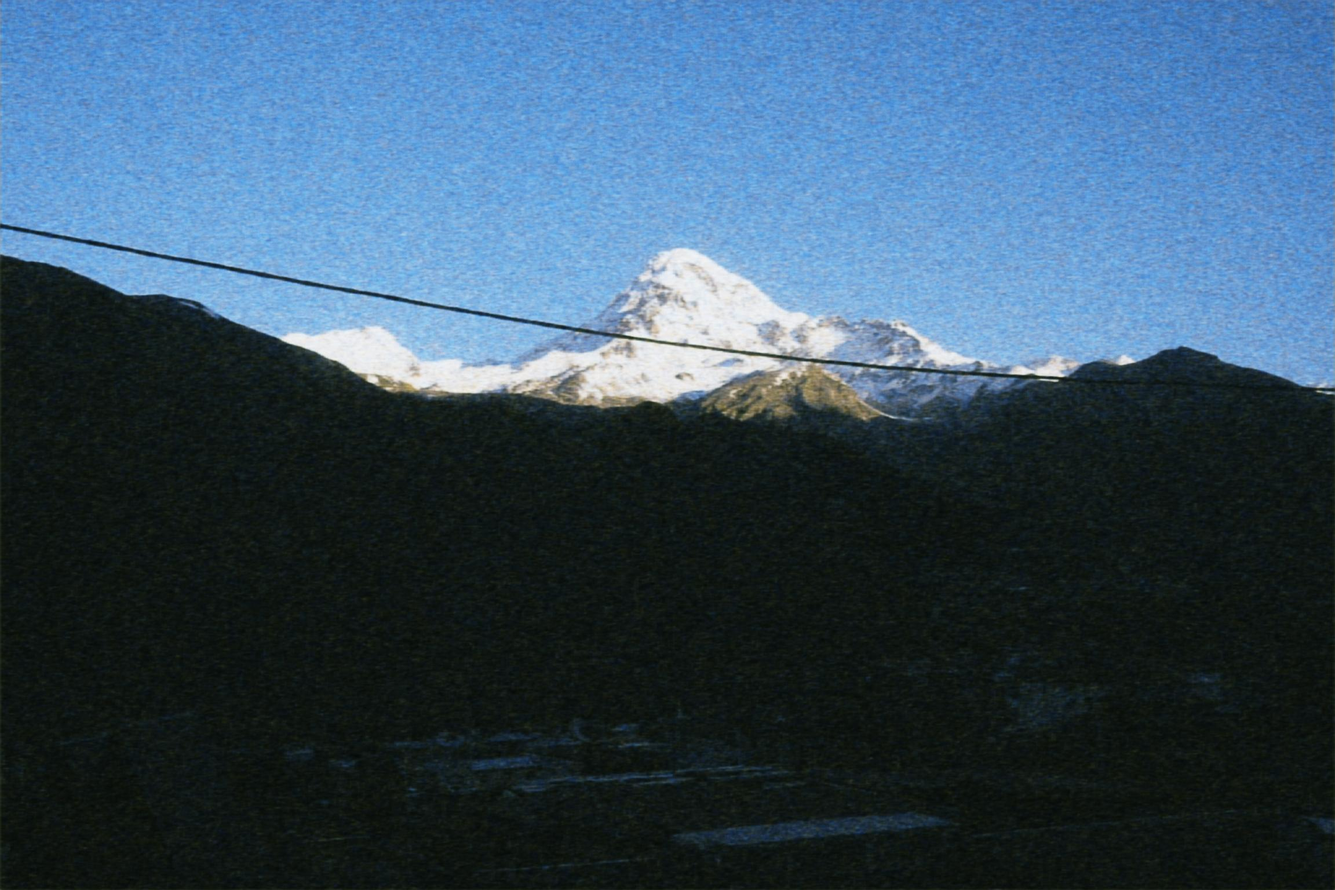
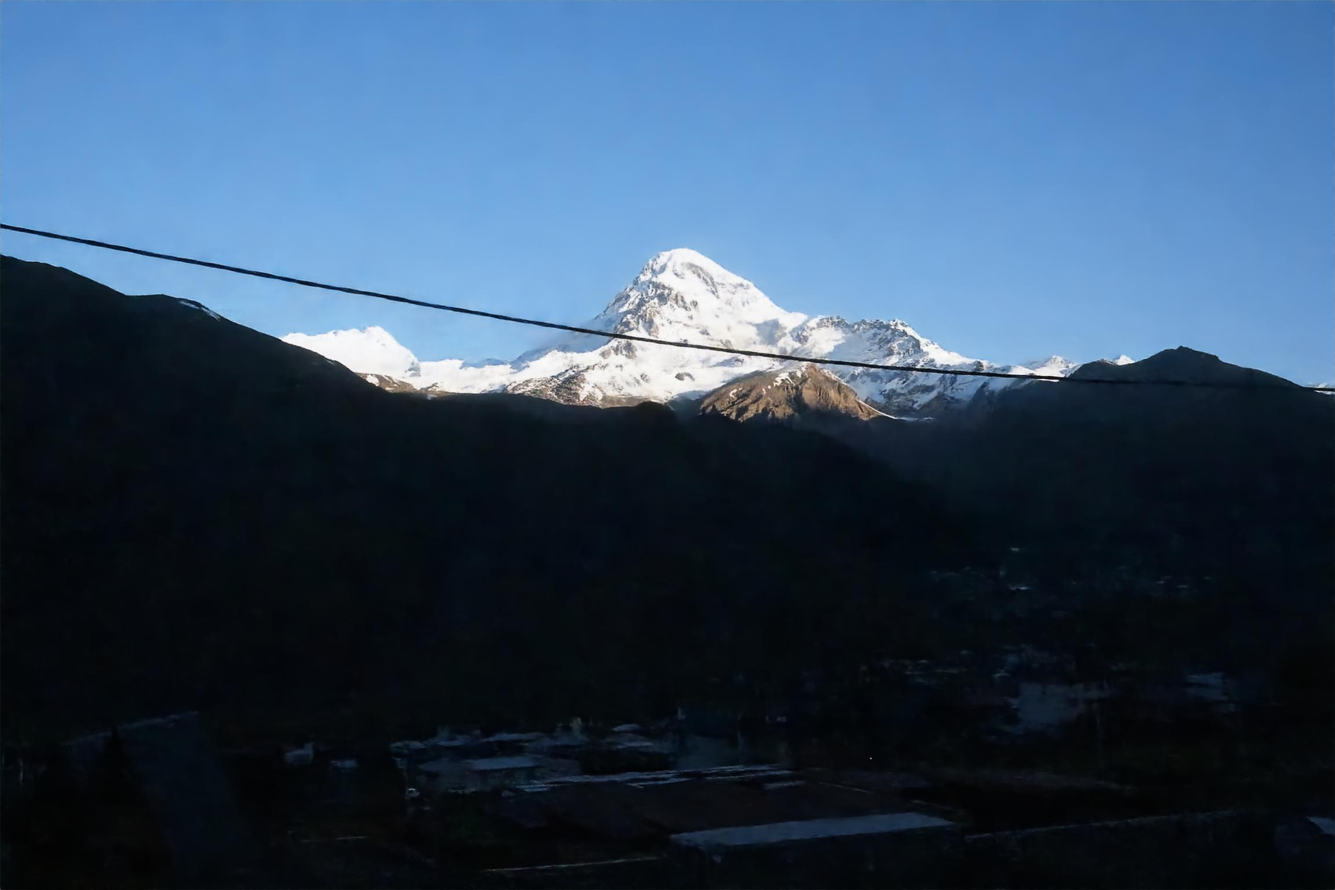
Update readme with latest results (#11)

diff --git a/README.md b/README.md
@@ -2,49 +2,63 @@
 
 A simple model to restore images from noise - and in the future from "out of focus" effects.
 
-## v0 Model Architecture
+## Denoising example
 
-A simple Autoencoder with 3 layers of convolution followed by 3 layers of deconvolution. Image dimensions flow is as follows:
+### Noise Level σ = 50
 
-1. pre: 3xHxW -> 3x16x16
-2. con-1: 3x16x16 -> 64x16x16
-3. con-2: 64x16x16 -> 128x8x18
-4. con-3: 128x8x18 -> 256x4x4
-5. decon-1: 256x4x4 -> 128x8x18
-6. decon-2: 128x8x18 -> 64x16x16
-7. decon-3: 64x16x16 -> 3x16x16
+#### Landscape Model
 
-Note 1: We have an additional 4th batching dimension.
-
-Note 2: For now we don't resize the image back to its original size since the output of this lightweight network is a small image.
-
-## Training Results
-
-Since we didn't use benchmark images and noise setting/levels, the metrics can't be directly compared. Nevertheless, we can see that
-the v0 model is still behind other denoising techniques/models (PSNR scores between ~25 and ~34). We'll tackle this by adding skip
-connections between the convolution layer and its adjacent deconvolution layer (inspired by
-[Xiao-Jiao Mao et al., 2016](https://arxiv.org/pdf/1606.08921)).
-
-Another issue with the current model is overfitting, which we will attempt to tackle with dropout layers.
-
-Moving forward we should include SSIM evaluation and standard benchmark setup for proper comparison.
-
-### Graphs
-
-![Loss](graphs/1717941258_loss.png)
-![PSNR](graphs/1717941258_psnr.png)
-![SSIM](graphs/1717941258_ssim.png)
-
-### Denoising example
-
-#### Noisy
+Noisy
 
 ![Noisy Image](images/image_noised.jpg)
 
-#### Denoised
+Denoised
 
 ![Denoised Image](images/image_denoised.jpg)
 
-#### Original
+Original
 
 ![Original Image](images/image_original.jpeg)
+
+#### BSDS300 model
+
+| Noisy | Denoised | Original |
+|-------|----------|----------|
+| ![Noisy Image](images/image_bsds300_noised.jpg) | ![Denoised Image](images/image_bsds300_denoised.jpg) | ![Original Image](images/image_bsds300_original.jpg) |
+
+## Benchmark Results
+
+RED30 comes from the paper [Xiao-Jiao Mao et al., 2016](https://arxiv.org/pdf/1606.08921).
+
+### SSIM
+
+| Noise Level | RED30 | DA_v1 |
+|-------------|-------|-------|
+| σ = 30      | 27.95 | 33.77 |
+| σ = 50      | 25.75 | 31.47 |
+
+### PSNR
+
+| Noise Level | RED30  | DA_v1 |
+|-------------|--------|-------|
+| σ = 30      | 0.8019 | 0.9287 |
+| σ = 50      | 0.7167 | 0.8911 |
+
+## Training on noise level σ = 50
+
+Green (1745518710) is trained on BSDS300 and pink (1745509286) is trained on a local dataset of landscape images.
+
+#### SSIM
+
+![train/ssim](graphs/50_train_ssim.png)
+![val/ssim](graphs/50_val_ssim.png)
+
+#### PSNR
+
+![train/psnr](graphs/50_train_psnr.png)
+![val/psnr](graphs/50_val_psnr.png)
+
+#### Loss
+
+![train/loss](graphs/50_train_loss.png)
+![val/loss](graphs/50_val_loss.png)
